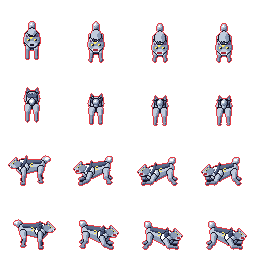
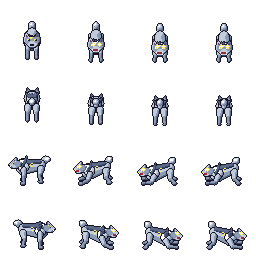
US-8C05: spadone a due mani, morte del lupo a terra, tell col lampo negli occhi, domande sul sito e pagina Note e testate
Claude-Session: https://claude.ai/code/session_014ycMSkFAn8ixUvbSfrqtAR

diff --git a/tools/dashboard/pagina.html b/tools/dashboard/pagina.html
@@ -128,6 +128,9 @@ img.foto { width: 100%; aspect-ratio: 16 / 9; object-fit: cover; border-radius: 
 .mini { display: grid; grid-template-columns: repeat(auto-fill, minmax(96px, 1fr)); gap: 6px }
 .mini button { border: 1px solid var(--linea); background: var(--fondo2); border-radius: 4px; padding: 4px; cursor: pointer; display: flex; flex-direction: column; align-items: center; gap: 2px; color: var(--testo); font: 11px var(--f-testo) }
 .mini button[aria-pressed="true"] { border-color: var(--accento); box-shadow: 0 0 0 1px var(--accento) }
+.cartella { border: 1px solid var(--linea, #ccc); border-radius: 8px; padding: 6px 10px; margin: 8px 0 } .cartella > summary { cursor: pointer; font-size: 1.05em }
+.sottocartella { margin: 6px 0 6px 14px } .sottocartella > summary { cursor: pointer; font-weight: 600 }
+.chip.domanda { background: #feae34; color: #181425 } .msg { border-left: 3px solid #feae34; padding: 4px 8px; margin: 6px 0 } .msg.spiegazione { border-color: #0099db }
 .storia { margin-top: 10px; border-top: 1px solid var(--bordo, #ccc); padding-top: 6px } .storia ul { margin: 4px 0 0; padding-left: 18px }
 .campo { display: block; width: 100%; border-radius: 6px; image-rendering: pixelated; background: #3e8948; outline: none; cursor: pointer }
 .campo:focus { box-shadow: 0 0 0 3px var(--accento) }
@@ -184,7 +187,7 @@ img.foto { width: 100%; aspect-ratio: 16 / 9; object-fit: cover; border-radius: 
 
 <script>
 "use strict";
-const SEZIONI = [["oggi", "Oggi"], ["provare", "Da testare"], ["avanzamento", "Avanzamento"], ["mondo", "Mondo"], ["paesi", "Paesi e case"], ["personaggi", "Personaggi"],
+const SEZIONI = [["oggi", "Oggi"], ["provare", "Da testare"], ["note", "Note e testate"], ["avanzamento", "Avanzamento"], ["mondo", "Mondo"], ["paesi", "Paesi e case"], ["personaggi", "Personaggi"],
   ["bestiario", "Bestiario"], ["tecniche", "Tecniche"], ["oggetti", "Oggetti"], ["libro", "Libro e HUD"], ["consumo", "Consumo"]];
 const DIREZ = ["giù", "su", "sinistra", "destra"];
 let D = null;
@@ -321,7 +324,7 @@ function aggiornaGiudizi() {
       const n = s.querySelector(".nota-card"); if (n) n.textContent = st === "no" ? notaDi(k) : ""; }
   }
   for (const m of document.querySelectorAll(".segno[data-k]")) { const st = statoDi(m.dataset.k); m.classList.toggle("ok", st === "ok"); m.classList.toggle("no", st === "no"); }
-  if (VISTA === "provare" && MOD.hidden) rendi();               // le schede passano da una sezione all'altra
+  if ((VISTA === "provare" || VISTA === "note") && MOD.hidden) rendi();               // le schede passano da una sezione all'altra
 }
 
 // ---------- elenco della vista e carte ----------
@@ -365,7 +368,7 @@ function apriElemento(i, focusNota = false) {
   const era = MOD.hidden; MOD.hidden = false;
   if (focusNota) document.getElementById("nota")?.focus(); else if (era) document.getElementById("mod-dopo").focus();
 }
-function chiudi() { for (const f of ESCI) f(); ESCI = []; MOD.hidden = true; if (VISTA === "provare") rendi(); document.querySelector(`[data-i="${IDX}"]`)?.focus(); }
+function chiudi() { for (const f of ESCI) f(); ESCI = []; MOD.hidden = true; if (VISTA === "provare" || VISTA === "note") rendi(); document.querySelector(`[data-i="${IDX}"]`)?.focus(); }
 document.getElementById("mod-chiudi").onclick = chiudi;
 document.getElementById("mod-prima").onclick = () => apriElemento((IDX - 1 + ELENCO.length) % ELENCO.length);
 document.getElementById("mod-dopo").onclick = () => apriElemento((IDX + 1) % ELENCO.length);
@@ -391,9 +394,9 @@ function pannelloGiudizio(k) {
   ta.addEventListener("input", () => { info.textContent = "…"; clearTimeout(timer); timer = setTimeout(scrivi, 700); });
   ESCI.push(() => { if (timer) { clearTimeout(timer); scrivi(); } });
   const vecchie = storiaDi(k);
-  return h("div", {class: "blocco"}, h("h4", {text: "Il tuo giudizio"}), bottoniGiudizio(k, false), h("div", {style: "height:6px"}), ta, info,
+  return h("div", {}, pannelloDomande(k), h("div", {class: "blocco"}, h("h4", {text: "Il tuo giudizio"}), bottoniGiudizio(k, false), h("div", {style: "height:6px"}), ta, info,
     vecchie.length ? h("div", {class: "storia"}, h("h4", {text: "Note già sistemate"}), h("ul", {}, vecchie.slice().reverse().map(n =>
-      h("li", {}, h("span", {class: "sotto", text: data(n.quando) + " · sistemata · "}), n.nota))) ) : null);
+      h("li", {}, h("span", {class: "sotto", text: data(n.quando) + " · sistemata · "}), n.nota))) ) : null));
 }
 function tabella(righe) { const r = righe.filter(x => x && x[1] !== undefined && x[1] !== null && x[1] !== ""); if (!r.length) return null;
   return h("div", {class: "blocco dati"}, h("h4", {text: "Dati"}), h("table", {}, h("tbody", {}, r.map(([a, b]) => h("tr", {}, h("td", {text: a}), h("td", {}, valoreColorato(a, b))))))); }
@@ -812,13 +815,15 @@ function figuraAnim(fid, nome, scala = 5) {
   const passo = h("button", {class: "chip", onclick: () => { l.pausa = true; l.avanza(1); }}, "Fotogramma dopo"), gioca = h("button", {class: "chip", onclick: () => { l.pausa = false; }}, "Riprendi");
   return [guarda(l.c, l), l.a.righe > 1 ? dir : null, h("div", {class: "controlli"}, h("label", {for: "vel-prova"}, "Velocità", vel), testo, passo, gioca)];
 }
+const NOMI_ANIM = {idle: "Fermo", walk: "Camminata", dash: "Schivata", attack_light: "Attacco leggero", attack_heavy: "Attacco pesante", parry: "Parata",
+  hurt: "Colpito", death: "Morte", cast: "Magia", meditate: "Meditazione", interact: "Interagire", pickup: "Raccogliere", drink: "Bere", ritual: "Rituale",
+  fly: "Volo", sail: "In barca", anticipo: "Segnale prima dell'attacco", attack: "Attacco", stagger: "Barcolla"};
 const SPIEGA_ANIM = {idle: "Fermo: respira.", walk: "Cammina (8 fotogrammi).", dash: "Schivata in uso nel gioco.", attack_light: "Attacco leggero (tasto J).",
   attack_heavy: "Attacco pesante (tasto K): si carica in avanti, spadone alto dietro la spalla; tenendo premuto resta sulla carica.", parry: "Parata: la lama davanti a lui, di traverso, incontro al colpo; la scintilla dove arriva.", hurt: "Colpito: si piega, faccia del dolore, sangue.",
   death: "Morte: cade all'indietro e resta a terra.", cast: "Lancia un'abilità.", meditate: "Medita seduto.", interact: "Tocca porte, leve, persone.", pickup: "Raccoglie da terra.",
   drink: "Beve una fiala.", ritual: "Rituale, braccia alzate.", fly: "In volo.", sail: "In barca.", anticipo: "Il segnale prima dell'attacco: si abbassa, bocca aperta, coda dritta.",
   attack: "Morso in salto.", stagger: "Colpito, barcolla."};
-VISTE.provare = () => {
-  ELENCO = [];
+function elementiProva() {
   const T = D.tecniche, inc = T.effetti.find(x => x.sprite === "vfx_incantesimo");
   let pw = null, ab = null;
   for (const p of T.pathway) for (const s of p.sequenze) for (const a of s.abilita) if (a.id === "hermit_incantesimo_tradizionale") { pw = p; ab = a; }
@@ -826,7 +831,7 @@ VISTE.provare = () => {
   const abil = ab && inc ? [{...ab, prim: ab.primitive, effetto: "vfx_incantesimo", danno: 18, cosa: ab.cosa || []}] : [];
   const tutti = [];
   const gruppo = (titolo, intro, elementi) => { for (const el of elementi) tutti.push({...el, gruppo: titolo}); };
-  const anim = (fid, chiave, nome) => ({k: `prova:${chiave}_${nome}`, titolo: bello(nome), breve: SPIEGA_ANIM[nome] || "",
+  const anim = (fid, chiave, nome) => ({k: `prova:${chiave}_${nome}`, titolo: NOMI_ANIM[nome] || bello(nome), breve: SPIEGA_ANIM[nome] || "",
     anteprima: () => lettore(fid, {scala: 2, giro: false, anim: nome}),
     media: () => [h("p", {text: SPIEGA_ANIM[nome] || ""}), ...figuraAnim(fid, nome, 5)]});
   if (D.figure.enel) {
@@ -849,17 +854,71 @@ VISTE.provare = () => {
      anteprima: () => lettore("enel", {scala: 2, giro: false, anim: "attack_heavy"}), media: () => [h("p", {text: "Provala nell'arena qui sotto la pagina (tasto K tenuto premuto)."}), ...figuraAnim("enel", "attack_heavy", 5)]},
     effetto("vfx_incantesimo", "prova:incantesimo", "Incantesimo tradizionale (in volo)", "Sigillo con 4 rune che gira, scia di scintille.", pal),
     effetto("vfx_incantesimo_scoppio", "prova:incantesimo_scoppio", "Incantesimo tradizionale (scoppio)", "Il sigillo si apre in un cerchio di rune e si spezza in schegge.", pal)].filter(Boolean));
-  const scheda = el => carta(el, el.anteprima(), h("b", {text: el.titolo}), h("span", {class: "sotto", text: el.gruppo + (el.breve ? " · " + el.breve : "")}),
-    storiaDi(el.k).length && !statoDi(el.k) ? h("span", {class: "chip", text: "rifatta: riprovala"}) : null);
-  const parte = (titolo, intro, els) => [h("h3", {text: `${titolo} (${els.length})`}), h("p", {class: "intro", text: intro}),
-    els.length ? h("div", {class: "griglia"}, els.map(scheda)) : h("div", {class: "vuoto", text: "Niente qui."})];
-  const da = tutti.filter(e => !statoDi(e.k)), mandate = tutti.filter(e => statoDi(e.k) === "no"), fatte = tutti.filter(e => statoDi(e.k) === "ok");
-  return [h("h2", {text: "Da testare"}), h("p", {class: "intro", text: "Prova ogni scheda: Va bene la manda in Testate; una nota la manda in Note mandate. Quando la sistemo torna qui da testare, con la tua nota fra quelle già sistemate, e ne puoi scrivere una nuova."}),
+  return {tutti, abil, pal};
+}
+const domandaAperta = k => (D.domande || []).some(d => d.k === k && d.tipo === "domanda" && !RISPOSTE.has(d.id));
+const schedaProva = el => carta(el, el.anteprima(), h("b", {text: el.titolo}), h("span", {class: "sotto", text: el.gruppo + (el.breve ? " · " + el.breve : "")}),
+  storiaDi(el.k).length && !statoDi(el.k) ? h("span", {class: "chip", text: "rifatta: riprovala"}) : null,
+  domandaAperta(el.k) ? h("span", {class: "chip domanda", text: "❓ ti ho fatto una domanda"}) : null);
+VISTE.provare = () => {
+  ELENCO = [];
+  const {tutti, abil, pal} = elementiProva(), da = tutti.filter(e => !statoDi(e.k));
+  return [h("h2", {text: "Da testare"}), h("p", {class: "intro", text: "Solo le cose da provare. Va bene le manda in «Note e testate» fra le approvate; una nota le manda fra le note mandate. Quando le sistemo tornano qui."}),
+    (D.domande || []).some(d => d.tipo === "domanda" && !RISPOSTE.has(d.id)) ? h("div", {class: "avviso"}, "❓ Ti ho fatto delle domande: le trovi nelle schede segnate e nella pagina ", h("a", {href: "#note", text: "Note e testate"}), ".") : null,
     h("h3", {text: "Arena di prova"}), arena({abilita: abil, palette: pal, bersaglio: D.figure.nem_lupo_della_luna ? "nem_lupo_della_luna" : true}),
-    ...parte("Da testare", "Nuove o rifatte dopo la tua ultima nota.", da),
-    ...parte("Note mandate", "Le tue note: le sto sistemando.", mandate),
-    ...parte("Testate", "Approvate. Se una cambia, torna da testare.", fatte)];
+    h("h3", {text: `Da testare (${da.length})`}), da.length ? h("div", {class: "griglia"}, da.map(schedaProva)) : h("div", {class: "vuoto", text: "Niente da testare: tutto approvato o in attesa delle mie correzioni."})];
 };
+
+// ---------- Note e testate: cartelle per argomento, dentro le note mandate e le approvate ----------
+const CARTELLE = [["prova:enel", "Enel"], ["prova:schivata", "Schivate"], ["prova:lupo", "Lupo della luna"], ["prova:", "Effetti e combattimento"],
+  ["boss:", "Boss"], ["nemico:", "Nemici"], ["personaggio:", "Personaggi"], ["luogo:", "Luoghi"], ["villaggio:", "Paesi e case"], ["interno:", "Interni"],
+  ["libro:", "Libro e HUD"], ["oggetto:", "Oggetti"], ["", "Altro"]];
+const cartellaDi = k => CARTELLE.find(([p]) => k.startsWith(p))[1];
+VISTE.note = () => {
+  ELENCO = [];
+  const prove = elementiProva().tutti, perK = new Map(prove.map(e => [e.k, e]));
+  const chiavi = new Set([...GIU.keys(), ...(D.domande || []).map(d => d.k).filter(Boolean)]);
+  const cart = new Map();
+  for (const k of chiavi) { const st = statoDi(k), dom = (D.domande || []).some(d => d.k === k); if (!st && !dom) continue;
+    const c = cartellaDi(k); if (!cart.has(c)) cart.set(c, {no: [], ok: [], dom: [], msg: []});
+    const x = cart.get(c); if (st === "no") x.no.push(k); else if (st === "ok") x.ok.push(k);
+    if ((D.domande || []).some(d => d.k === k && d.tipo === "domanda")) x.dom.push(k); else if (dom) x.msg.push(k); }
+  const riga = k => { const el = perK.get(k), g = GIU.get(k) || {}, st = statoDi(k);
+    const i = el ? (ELENCO.indexOf(el) >= 0 ? ELENCO.indexOf(el) : ELENCO.push(el) - 1) : -1;
+    return h("div", {class: i >= 0 ? "cliccabile" : "", onclick: i >= 0 ? () => apriElemento(i) : null},
+      h("span", {class: "id", text: el ? el.titolo : bello(k.split(":").pop())}),
+      h("span", {class: "tx", text: st === "no" ? notaDi(k) : (storiaDi(k).length === 1 ? "1 nota sistemata" : storiaDi(k).length ? storiaDi(k).length + " note sistemate" : "")}),
+      domandaAperta(k) ? h("span", {class: "chip domanda", text: "❓ domanda"}) : null,
+      h("span", {class: "dx", text: g.quando ? data(g.quando) : ""})); };
+  const sotto = (titolo, ks) => ks.length ? h("details", {class: "sottocartella", open: ""}, h("summary", {text: `${titolo} (${ks.length})`}), h("div", {class: "lista"}, ks.map(riga))) : null;
+  const ordine = CARTELLE.map(c => c[1]).filter(c => cart.has(c));
+  return [h("h2", {text: "Note e testate"}), h("p", {class: "intro", text: "Una cartella per argomento. Dentro: le tue note mandate (le sto sistemando), le domande che ti ho fatto, e le cose approvate. Clicca una riga della prova per riaprirla."}),
+    ...(ordine.length ? ordine.map(c => { const x = cart.get(c);
+      return h("details", {class: "cartella", open: ""}, h("summary", {}, h("b", {text: "📁 " + c}), h("span", {class: "sotto", text: `  ${x.no.length} note · ${x.dom.length} domande · ${x.msg.length} messaggi · ${x.ok.length} approvate`})),
+        sotto("❓ Domande per te", x.dom), sotto("💬 Messaggi di Claude", x.msg), sotto("✎ Note mandate", x.no), sotto("✓ Testate", x.ok)); })
+      : [h("div", {class: "vuoto", text: dbStato === "ok" ? "Ancora niente." : "Giudizi non leggibili (" + dbStato + ")."})])];
+};
+
+// ---------- domande e spiegazioni di Claude, sulle schede ----------
+// D.domande da tools/dashboard/domande.json: {id, k, tipo: domanda|spiegazione, testo, opzioni}; le risposte stanno
+// nell'archivio della pagina, risposte/<id> = {scelta, testo, quando}.
+const RISPOSTE = new Map();
+function pannelloDomande(k) {
+  const ds = (D.domande || []).filter(d => d.k === k); if (!ds.length) return null;
+  return h("div", {class: "blocco"}, h("h4", {text: "Claude ti scrive"}), ...ds.map(d => {
+    const r = RISPOSTE.get(d.id) || {}, box = h("div", {class: "msg " + d.tipo}, h("p", {style: "margin:0 0 6px", text: (d.tipo === "domanda" ? "❓ " : "💬 ") + d.testo}));
+    if (d.tipo === "domanda") {
+      const stato = h("span", {class: "sotto", text: r.quando ? "Risposta mandata " + data(r.quando) : "Aspetto la tua risposta"});
+      const manda = async campi => { if (!db || !posso) return; const nuovo = {...(RISPOSTE.get(d.id) || {}), ...campi, k, quando: new Date().toISOString()};
+        RISPOSTE.set(d.id, nuovo); try { await db.doc("risposte/" + d.id).set(nuovo); stato.textContent = "Risposta mandata"; } catch (e) { stato.textContent = "Non salvata: " + (e.code || "errore"); } };
+      const opz = (d.opzioni || []).map(o => h("button", {class: "chip", "aria-pressed": String(r.scelta === o), disabled: !posso, onclick: ev => { manda({scelta: o});
+        for (const b of ev.currentTarget.parentNode.querySelectorAll("button")) b.setAttribute("aria-pressed", String(b === ev.currentTarget)); }}, o));
+      const ta = h("textarea", {placeholder: "Oppure scrivi la tua risposta (si salva da sola)", disabled: !posso}); ta.value = r.testo || "";
+      let t = null; ta.addEventListener("input", () => { clearTimeout(t); t = setTimeout(() => manda({testo: ta.value.trim()}), 700); });
+      box.append(h("div", {class: "filtri"}, ...opz), ta, stato);
+    }
+    return box; }));
+}
 
 VISTE.avanzamento = () => {
   const av = D.avanzamento, st = stato("avanzamento"); st.fatte = st.fatte || "aperte";
@@ -1110,6 +1169,7 @@ fetch("dati.json").then(r => r.json()).then(d => { D = d; avviso(`commit ${d.com
     let primo = true;
     db.collection("giudizi").onSnapshot(snap => { clearTimeout(timer); dbStato = "ok"; GIU.clear(); for (const x of snap.docs) GIU.set(x.id, x.data());
       if ((primo || VISTA === "oggi") && MOD.hidden) rendi(); primo = false; aggiornaGiudizi(); }, e => { dbStato = "errore " + e.code; });
+    db.collection("risposte").onSnapshot(snap => { RISPOSTE.clear(); for (const x of snap.docs) RISPOSTE.set(x.id, x.data()); if ((VISTA === "provare" || VISTA === "note") && MOD.hidden) rendi(); }, () => {});
     db.collection("consumo").onSnapshot(snap => { CONSUMO = snap.docs.map(x => x.data()); if ((VISTA === "consumo" || VISTA === "oggi") && MOD.hidden) rendi(); }, () => {});
   } catch (e) { dbStato = "errore"; clearTimeout(timer); }
 })();

diff --git a/tools/art/griglia/figure/lupo_della_luna.py b/tools/art/griglia/figure/lupo_della_luna.py
@@ -115,7 +115,7 @@ def disegna(tela, v, g, posa):
                      uniti=("corpo",), separa=False)
         c = v.xy(g["collo"])
         segmento(tela, s, c, 5.0, 4.4, R["pelo"] if v.dir == "up" else R["criniera"], "criniera")
-        if v.dir in ("left", "right"):           # falce di luna gialla sul fianco
+        if v.dir in ("left", "right") and not posa.get("senza_luna"):   # falce di luna gialla sul fianco
             fx, fy = v.xy((g["anche"] + g["spalle"]) / 2 + g["su"] * 0.5)
             q = int(round(posa.get("cade", 0) / 90.0)) % 4      # ogni disegno sul corpo gira col corpo
             griglia(tela, [".YY.", "Y...", "Y...", ".YY."], {"Y": colore("yellow")}, int(round(fx - 2)),
@@ -142,11 +142,26 @@ def disegna(tela, v, g, posa):
         if gira:
             w, h = h, w
         dx = {"left": -2, "right": 2}.get(v.dir, 0)
-        griglia(tela, righe, M, int(round(x - w / 2 + dx)), int(round(y - h / 2)), "testa", specchia=spec,
+        mappa = M
+        if posa.get("lampo_occhi"):              # il tell: gli occhi (e la falce) si accendono di bianco
+            mappa = {**M, "Y": colore("white"), "K": colore("yellow")}
+        if posa.get("senza_luna"):               # morto: occhi spenti, la falce non si vede
+            mappa = {**M, "Y": colore("slate"), "K": colore("slate_d")}
+        griglia(tela, righe, mappa, int(round(x - w / 2 + dx)), int(round(y - h / 2)), "testa", specchia=spec,
                 ruota=gira, uniti=("criniera",))
     parti.append((v.prof(g["testa"]) + (8.0 if v.dir == "up" else 2.0), 3, testa))
 
     sangue = posa.get("sangue", 0)               # gocce dal fianco (stagger, death)
+    if posa.get("lampo_occhi"):                  # bagliore attorno agli occhi: si legge anche piccolo e fermo
+        def bagliore():
+            x, y = v.xy(g["testa"])
+            dx = {"left": -4, "right": 4}.get(v.dir, 0)
+            punti = ((-3, -1), (3, -1)) if v.dir in ("down", "up") else ((0, -1),)
+            for px, py in punti:
+                griglia(tela, ["..w..", ".wYw.", "wYWYw", ".wYw.", "..w.."], {"w": colore("yellow"), "Y": colore("white"),
+                        "W": colore("white")}, int(round(x + dx + px - 2)), int(round(y + py - 3)), "bagliore", separa=False)
+        if v.dir != "up":
+            parti.append((v.prof(g["testa"]) + 9, 8, bagliore))
     if sangue:
         def gocce():
             c = (g["anche"] + g["spalle"]) / 2 + g["su"] * 2
@@ -184,9 +199,9 @@ ANIM = {
                         _trotto(0.75, 4, 0, 0.8)]},
     "anticipo": {"chiavi": [
         (0.0, dict(FERMO, piega=10, testa=(20, 0), coda=(40, 0))),
-        (0.5, dict(FERMO, piega=22, testa=(34, 0), coda=(70, 0), bocca=1, ant_l=(30, 6, 60), ant_r=(30, 6, 60),
+        (0.5, dict(FERMO, lampo_occhi=True, piega=22, testa=(34, 0), coda=(70, 0), bocca=1, ant_l=(30, 6, 60), ant_r=(30, 6, 60),
                    post_l=(-12, 4, 20), post_r=(-12, 4, 20), avanti=-1.5, tieni=True)),
-        (1.0, dict(FERMO, piega=24, testa=(36, 0), coda=(75, 0), bocca=1, ant_l=(32, 6, 64), ant_r=(32, 6, 64),
+        (1.0, dict(FERMO, lampo_occhi=True, piega=24, testa=(36, 0), coda=(75, 0), bocca=1, ant_l=(32, 6, 64), ant_r=(32, 6, 64),
                    post_l=(-14, 4, 24), post_r=(-14, 4, 24), avanti=-2))]},
     "attack": {"chiavi": [
         (0.0, dict(FERMO, piega=20, testa=(30, 0), bocca=1, coda=(60, 0), ant_l=(30, 6, 60), ant_r=(30, 6, 60),
@@ -202,13 +217,15 @@ ANIM = {
                    ant_r=(30, 6, 40), bocca=1, sangue=0.7)),
         (0.5, dict(FERMO, piega=-8, testa=(-15, 10), avanti=-2.5, coda=(-20, 0), sangue=1.3)),
         (1.0, dict(FERMO, coda=(0, 0)))]},
+    # morte: le zampe cedono, il corpo va a terra, il muso si appoggia al suolo (anche di profilo); a terra la falce
+    # non si vede (giudizio dell'utente: ogni disegno sul corpo segue il corpo)
     "death": {"chiavi": [
         (0.0, dict(FERMO, piega=-10, testa=(-25, 0), bocca=1, sangue=0.8)),
-        (2 / 9, dict(FERMO, piega=12, testa=(30, 0), ant_l=(30, 4, 70), ant_r=(30, 4, 70), bocca=1, sangue=1.4)),
-        (4 / 9, dict(FERMO, piega=20, testa=(40, 0), ant_l=(60, 4, 120), ant_r=(60, 4, 120), post_l=(20, 4, 40),
-                     post_r=(20, 4, 40), cade=30, pozza=1.2)),
-        (7 / 9, dict(FERMO, testa=(10, 0), ant_l=(20, 10, 20), ant_r=(30, 10, 20), post_l=(-10, 10, 20),
-                     post_r=(0, 10, 20), cade=85, coda=(-30, 0), pozza=2.8)),
-        (1.0, dict(FERMO, testa=(10, 0), ant_l=(24, 10, 24), ant_r=(34, 10, 24), post_l=(-12, 10, 22),
-                   post_r=(0, 10, 22), cade=90, coda=(-34, 0), pozza=3.6))]},
+        (2 / 9, dict(FERMO, piega=14, testa=(30, 0), ant_l=(40, 6, 100), ant_r=(40, 6, 100), bocca=1, sangue=1.4)),
+        (4 / 9, dict(FERMO, piega=8, testa=(55, 0), ant_l=(70, 20, 150), ant_r=(70, 20, 150), post_l=(40, 20, 120),
+                     post_r=(40, 20, 120), coda=(-10, 0), pozza=1.4)),
+        (7 / 9, dict(FERMO, piega=0, testa=(75, 10), ant_l=(80, 50, 150), ant_r=(70, 40, 150), post_l=(60, 50, 140),
+                     post_r=(50, 40, 140), coda=(-30, 10), cade=25, pozza=2.8, senza_luna=True)),
+        (1.0, dict(FERMO, piega=0, testa=(80, 12), ant_l=(85, 55, 150), ant_r=(75, 45, 150), post_l=(65, 55, 140),
+                   post_r=(55, 45, 140), coda=(-34, 12), cade=28, pozza=3.6, senza_luna=True))]},
 }

diff --git a/tools/art/griglia/figure/personaggio.py b/tools/art/griglia/figure/personaggio.py
@@ -97,8 +97,30 @@ def _p(v, g):
     return v.xy(g)
 
 
+def _due_mani(g):
+    """La mano sinistra sull'elsa, sotto la destra (spadone a due mani): il gomito si trova dalle due lunghezze del
+    braccio (due ossa), piegato verso il basso e in fuori."""
+    d = g["arma_dir"]
+    meta = g["mano_r"] - d * 2.0
+    s = g["spalla_l"]
+    a, b = CORPO.m["braccio"], CORPO.m["avambraccio"]
+    v = meta - s
+    dist = min(np.linalg.norm(v), a + b - 0.01)
+    v = v / max(np.linalg.norm(v), 1e-6)
+    meta = s + v * dist
+    x = (a * a - b * b + dist * dist) / (2 * dist)
+    h = np.sqrt(max(a * a - x * x, 0.0))
+    giu = np.array([-0.4, 0.0, -1.0])            # il gomito va in basso e un po' in fuori (verso la sua sinistra)
+    perp = giu - v * np.dot(giu, v)
+    perp = perp / max(np.linalg.norm(perp), 1e-6)
+    g["gomito_l"] = s + v * x + perp * h
+    g["mano_l"] = meta
+
+
 def disegna(tela, v, g, posa):
     """Ordina le parti per profondita' e le posa sulla tela."""
+    if posa.get("due_mani") and posa.get("arma_su", "mano") != "schiena":
+        _due_mani(g)
     parti = []
     vis = v.lato_visibile()
     dietro = v.prof(g["bacino"] - np.array([0, 1.5, 0]))
@@ -167,7 +189,7 @@ def disegna(tela, v, g, posa):
         # la testa gira a quarti con il corpo, ma solo di profilo: da davanti chi e' sdraiato all'indietro si vede in
         # faccia (dritto), da dietro a testa in giu'
         q = int(-round(posa.get("cade", 0) / 90.0)) % 4
-        gira = q if v.dir in ("left", "right") else (0 if v.dir == "down" else (2 * q) % 4)
+        gira = q if v.dir == "left" else (-q) % 4 if v.dir == "right" else (0 if v.dir == "down" else (2 * q) % 4)
         w, h = len(righe[0]), len(righe)
         if gira:
             w, h = h, w
@@ -312,15 +334,15 @@ ANIM = {
     # spalla destra. Il frame 5 e' quello che il gioco tiene fermo mentre si carica (tenendo premuto il tasto).
     "attack_heavy": {"chiavi": [
         (0.0, dict(PRONTO)),
-        (2 / 11, dict(PRONTO, arma=(45, 160), braccio_r=(95, 30, 90), braccio_l=(95, 4, 85), gira=12, piega=18,
+        (2 / 11, dict(PRONTO, due_mani=True, arma=(45, 160), braccio_r=(95, 30, 90), braccio_l=(95, 4, 85), gira=12, piega=18,
                       avanti=1.0, gamba_l=(28, 6, 34), gamba_r=(-8, 6, 14))),
-        (5 / 11, dict(PRONTO, arma=(65, 175), braccio_r=(125, 26, 95), braccio_l=(122, 4, 95), gira=14, piega=24,
+        (5 / 11, dict(PRONTO, due_mani=True, arma=(65, 175), braccio_r=(125, 26, 95), braccio_l=(122, 4, 95), gira=14, piega=24,
                       avanti=2.0, gamba_l=(32, 8, 46), gamba_r=(-8, 8, 18), tieni=True)),
-        (6 / 11, dict(PRONTO, arma=(10, 0), braccio_r=(105, 8, 6), braccio_l=(102, -8, 6), gira=-4, piega=22,
+        (6 / 11, dict(PRONTO, due_mani=True, arma=(10, 0), braccio_r=(105, 8, 6), braccio_l=(102, -8, 6), gira=-4, piega=22,
                       avanti=2.5, gamba_l=(32, 6, 34), gamba_r=(-20, 6, 14))),
-        (7 / 11, dict(PRONTO, arma=(-40, 0), braccio_r=(70, 6, 2), braccio_l=(68, -8, 2), piega=30, avanti=3,
+        (7 / 11, dict(PRONTO, due_mani=True, arma=(-40, 0), braccio_r=(70, 6, 2), braccio_l=(68, -8, 2), piega=30, avanti=3,
                       gamba_l=(34, 6, 42), gamba_r=(-22, 6, 14))),
-        (9 / 11, dict(PRONTO, arma=(-30, 5), braccio_r=(64, 8, 10), braccio_l=(62, -8, 10), piega=24, avanti=2,
+        (9 / 11, dict(PRONTO, due_mani=True, arma=(-30, 5), braccio_r=(64, 8, 10), braccio_l=(62, -8, 10), piega=24, avanti=2,
                       gamba_l=(26, 6, 30), gamba_r=(-16, 6, 12))),
         (1.0, dict(PRONTO))]},
     # parry: la lama DAVANTI a lui, di traverso fra lui e il colpo (mani avanti all'altezza del petto, lama che sale in

diff --git a/tools/art/generate_all.py b/tools/art/generate_all.py
@@ -33,6 +33,9 @@ DEST = os.path.join(ROOT, "assets", "placeholder")
 DIM = 64                                  # sovrascritta in main() da data/animations.json
 ROSSO_TELL = (0xE4, 0x3B, 0x44, 255)      # Endesga 32
 STATI_TELL = {"nemico_base": ["anticipo"]}
+# il tell delle figure a griglia e' il lampo negli occhi, disegnato nella figura (scelta dell'utente, 2026-11-19): niente
+# contorno rosso. Le altre lo tengono finche' non sono rifatte.
+GRIGLIA = {"lupo_della_luna"}
 
 
 def contorno_tell(im, cella):
@@ -74,7 +77,7 @@ def copia_categoria(cat, spec, aspetto=""):
             continue
         src = os.path.join(SORGENTI, f"{pre}{nome}.png")
         im = Image.open(src).convert("RGBA")
-        if nome in STATI_TELL.get(cat, []):               # prima di ingrandire: il bordo resta largo come il contorno
+        if nome in STATI_TELL.get(cat, []) and aspetto not in GRIGLIA:  # le figure a griglia hanno il lampo negli occhi
             im = contorno_tell(im, im.size[0] // int(a["frames"]))
         im = a_dimensione(im, a, src)
         atteso = (DIM * int(a["frames"]), DIM * (4 if a.get("direzionale") else 1))

diff --git a/tools/dashboard/build.py b/tools/dashboard/build.py
@@ -520,6 +520,7 @@ def main():
     dati["personaggi"] = personaggi()
     dati["tecniche"] = tecniche()
     dati["versioni"] = versioni()
+    dati["domande"] = json.load(open(os.path.join(ROOT, "tools", "dashboard", "domande.json"), encoding="utf-8"))
     dati["combattimento"] = senza_commenti(json.load(open(os.path.join(DATA, "balance.json"), encoding="utf-8"))["combattimento"])
     dati["oggetti"], dati["stati"] = oggetti()
     dati["mondo"] = mondo()

diff --git a/CLAUDE.md b/CLAUDE.md
@@ -322,8 +322,14 @@ tabella li ricopia. Dash e parata restano a `fps`: sono finestre di gameplay.
 - Si costruisce con `python tools/dashboard/build.py` (-> `build/dashboard/`, non nel repo; `--foto` rifa le foto
   dal gioco con `tests/manual/qa_dashboard_foto.gd`, ~5 minuti) e si ripubblica allo **stesso link** (Artifact con
   `url` e `root` = `build/dashboard`, `files` = img/, foto/*.jpg, dati.json; al massimo 255 file per volta).
-- Giudizi dell'utente: archivio della pagina, `giudizi/<tipo>:<id>` = {stato: "ok"|"no", nota, quando}. A inizio
-  sessione si leggono (ArtifactData `list` su `giudizi`): ogni "no" con la nota e' lavoro da fare (una story).
+- Giudizi dell'utente: archivio della pagina, `giudizi/<tipo>:<id>` = {stato: "ok"|"no", nota, quando, versione, storia}.
+  A inizio sessione e ogni volta che l'utente dice di guardare le note si leggono (ArtifactData `query` su `giudizi`):
+  ogni "no" con la nota e' lavoro da fare. Un giudizio vale per la versione del disegno (`tools/dashboard/versioni.json`):
+  rifatta la cosa, torna "Da testare" e la nota va fra le sistemate.
+- **Le domande all'utente si fanno sul sito** (richiesta dell'utente, 2026-11-19), non solo in chat: una voce in
+  `tools/dashboard/domande.json` ({id, k, tipo: domanda|spiegazione, testo, opzioni}); la scheda e' segnata
+  "❓ domanda"; le risposte stanno in `risposte/<id>` (leggerle con ArtifactData). Pagine: "Da testare" (solo da
+  provare) e "Note e testate" (cartelle per argomento: domande, messaggi, note mandate, approvate).
 - **A fine di ogni sessione di lavoro** (regola chiesta dall'utente): `python tools/dashboard/consumo.py`, poi
   ArtifactData `set` di `consumo/<id sessione>` per ogni sessione nuova o cresciuta (file
   `build/dashboard/consumo.json`), poi `build.py` e ripubblica. Il costo e' una stima al listino API (nello

diff --git a/.claude/skills/arte-personaggi/SKILL.md b/.claude/skills/arte-personaggi/SKILL.md
@@ -33,7 +33,12 @@ Questa skill dice **come devono venire**; i comandi e i dati restano quelli di C
   devono vedere salire (ginocchio alto nel passaggio).
 - **Mosse che non conosci** (capriola, salti, arrampicate...): prima cerca come le fanno le persone vere e come le
   disegnano gli animatori (pose chiave, numero di frame), poi disegna. Piu' fotogrammi se il movimento e' complesso.
-- **Il tell del nemico deve avere un senso visibile** (una posa estrema), non solo un contorno colorato.
+- **Il tell del nemico e' il lampo negli occhi** (scelta dell'utente, 2026-11-19): gli occhi si accendono di bianco e
+  giallo con un bagliore attorno, piu' la posa estrema. Niente contorno rosso (generate_all lo salta per le figure a
+  griglia, elenco GRIGLIA).
+- **Spadone a due mani** negli attacchi pesanti (`due_mani=True`: la mano sinistra sull'elsa, gomito da due ossa).
+- **Chi muore si appoggia a terra**: anche il muso o la testa scendono al suolo in ogni vista; da sdraiati i marchi
+  sul fianco non si vedono e gli occhi si spengono.
 - **Ogni nemico si prova sul terreno vero** nell'arena della dashboard, e ogni attacco deve far capire cosa fa
   (se spara, si vede l'arma che spara).
 
